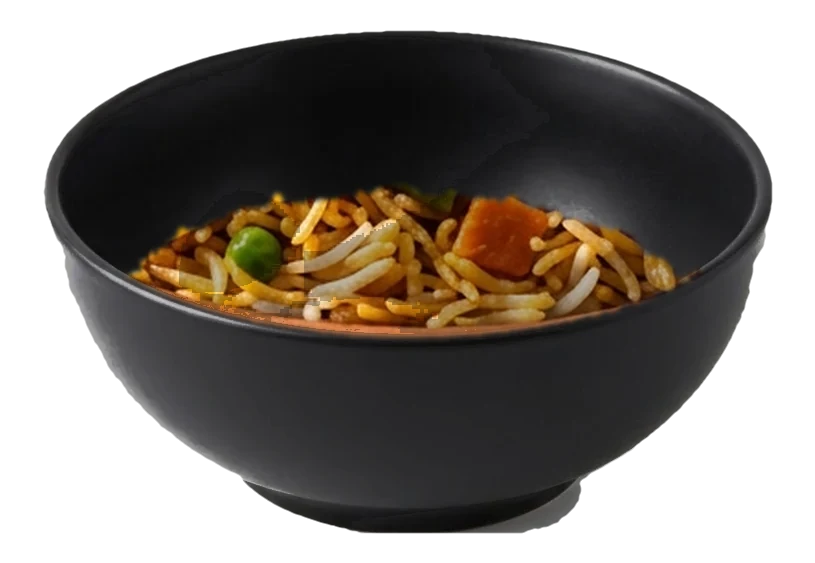
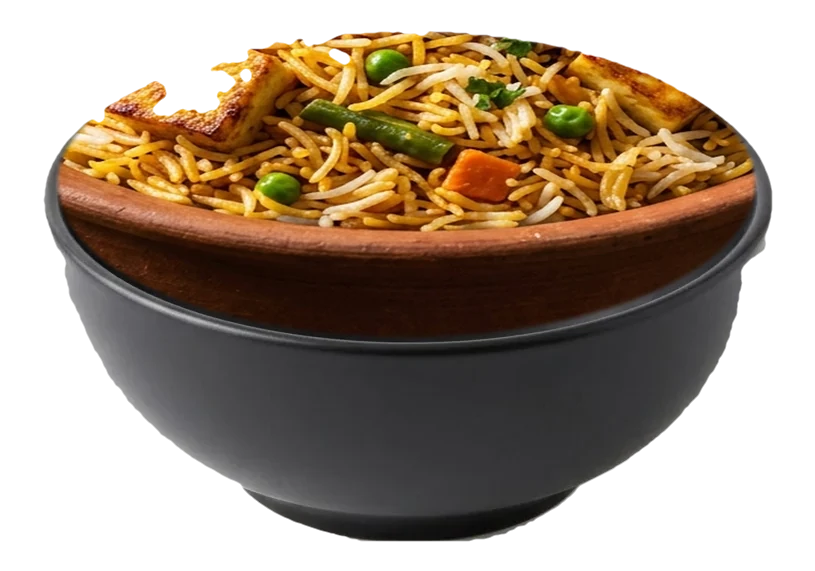
Fix Veg Biryani animation: fill bowl generously up to the rim with authentic basmati and vegetables

diff --git a/scenes/scene-data.js b/scenes/scene-data.js
@@ -60,10 +60,10 @@ const SCENES = {
     bowl: 'scenes/processed/veg-biryani/bowl.webp',
     dry: 'scenes/processed/veg-biryani/dry.webp',
     wet: 'scenes/processed/veg-biryani/wet.webp',
-    ready: 'scenes/processed/veg-biryani/ready.webp?v=2',
-    size: [815, 563],
-    opening: { cx: 49.82, cy: 32.14, rx: 42.7, ry: 26.83 },
-    bowlBottom: 94.68,
+    ready: 'scenes/processed/veg-biryani/ready.webp?v=3',
+    size: [815, 571],
+    opening: { cx: 49.82, cy: 33.09, rx: 42.7, ry: 26.45 },
+    bowlBottom: 94.75,
     prepMinutes: 7,                                     // the Veg Biryani pack says 7 minutes (boiling-water method: 160 ml, wait 7 min)
     particle: 'grain',
     colors: ['var(--scene-veg-biryani-c1)', 'var(--scene-veg-biryani-c2)', 'var(--scene-veg-biryani-c3)'],

diff --git a/index.html b/index.html
@@ -296,7 +296,7 @@
   <script src="hero-products.js" defer></script>
   <script src="scenes/motion.js" defer></script>
   <script src="heroes/switcher.js?v=2" defer></script>
-  <script src="scenes/scene-data.js?v=2" defer></script>
+  <script src="scenes/scene-data.js?v=3" defer></script>
   <script src="scenes/hiw-scene.js?v=3" defer></script>
   <script src="heroes/home.js" defer></script>
 </body>
